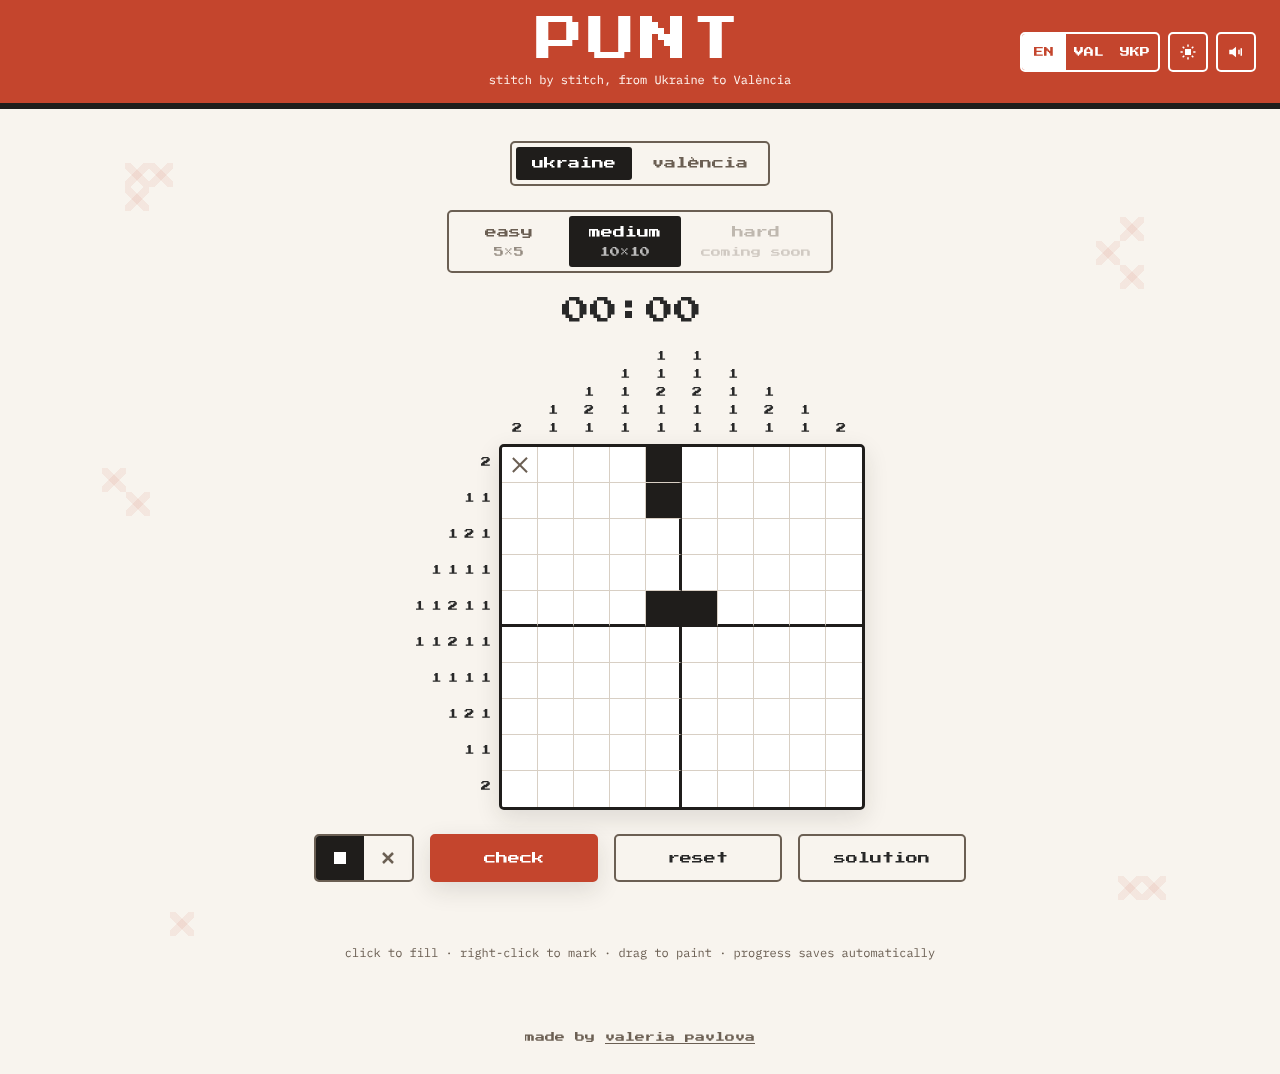
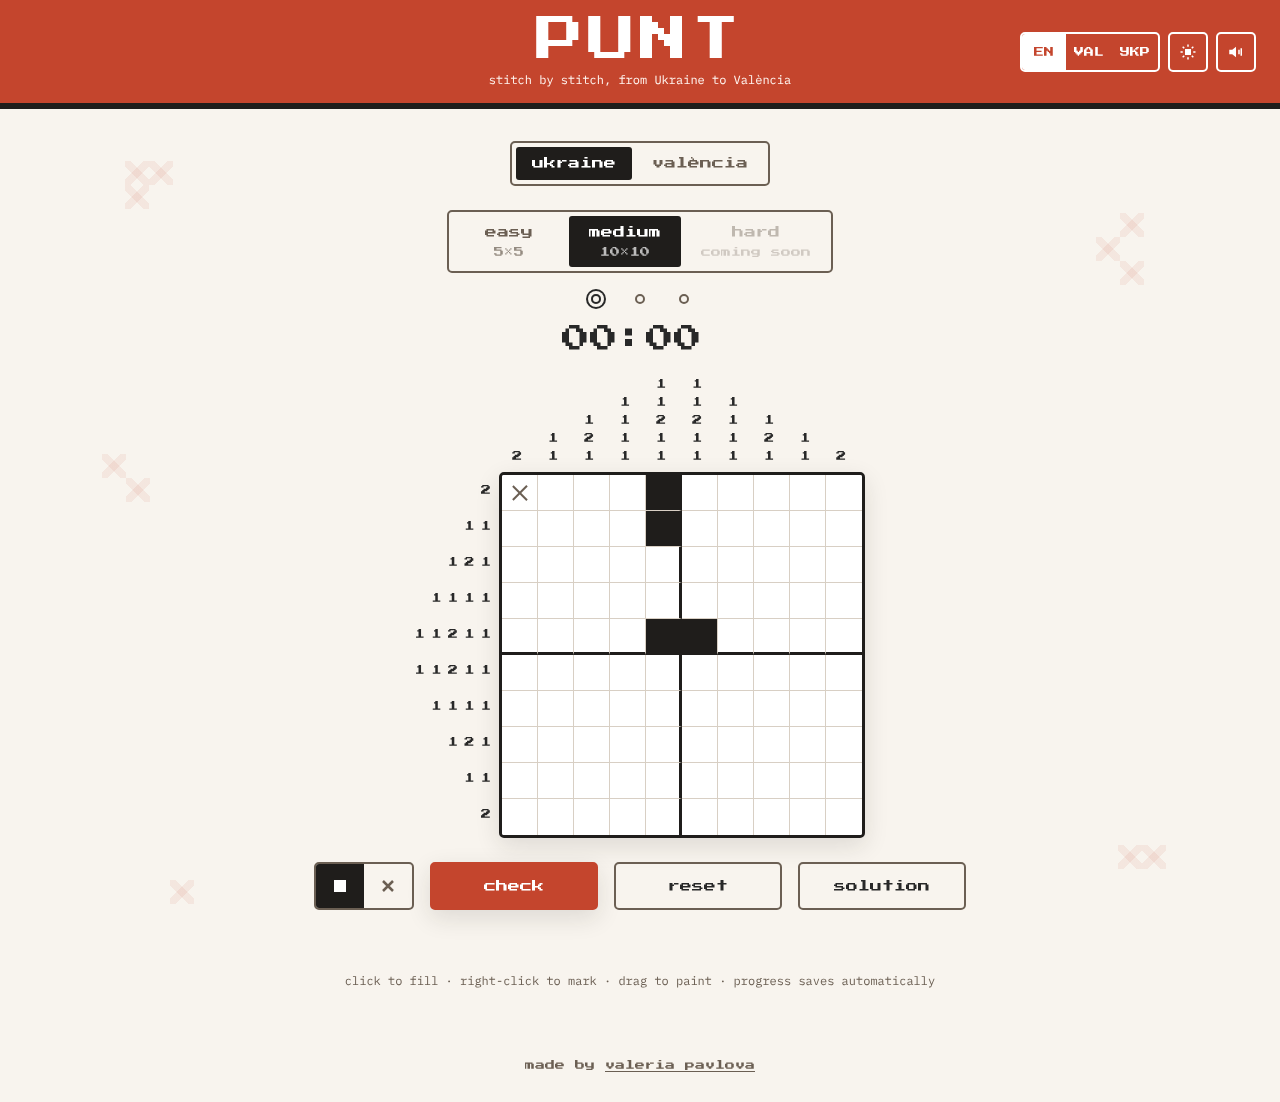
Update README and screenshots for puzzle lists and phone layout
Claude-Session: https://claude.ai/code/session_01DfzDpSfzki2WAp89fEaqQ4

diff --git a/README.md b/README.md
@@ -12,14 +12,15 @@
 
 A nonogram chart and a cross-stitch chart are the same thing: a square grid where each cell is either stitched or left as bare linen. **Stitch = pixel.** I built the game on that idea and on the two places it connects:
 
-- **Ukraine** — motifs from *vyshyvanka* embroidery and *pysanky*: *Wolf's teeth* (a protective border) and *Sown field* (a wish for a good harvest).
-- **València** — symbols of the city: the *orange* of l'Horta and the *rat penat*, the bat on the city's coat of arms.
+- **Ukraine** — motifs from *vyshyvanka* embroidery and *pysanky*: *Wolf's teeth* (a protective border), *Sown field* (a wish for a good harvest), *Rakes*, *Ram's horns*, the eight-pointed star, the little pine and the rose.
+- **València** — symbols of the city: the *orange* of l'Horta and the *rat penat*, the bat on the city's coat of arms, the fan of Aldaia, a Manises tile, the Micalet tower and the paella.
 
 The game uses the same pixel-and-thread language in its UI: a pixel typeface, a grid on linen, and a cross-stitch reveal when you win.
 
 ## Features
 
-- Two collections (Ukraine, València) with **easy 5×5** and **medium 10×10** puzzles. **Hard 15×15** is locked and shows a visible “coming soon” label.
+- Two collections (Ukraine, València) with **13 puzzles**: several **easy 5×5** and **medium 10×10** puzzles per collection. **Hard 15×15** is locked and shows a visible “coming soon” label.
+- **Progress dots** under the level switch: one dot per puzzle — filled when solved, a ring around the current one. Tap a dot to open that puzzle. **Next puzzle** goes to the next unsolved puzzle in the level, then to the next level. Revealing the solution does not count as solved.
 - Every puzzle is checked by a solver to have **exactly one solution**.
 - **Three languages**: English, Valencian, Ukrainian. All UI strings live in one file, `src/i18n.js`. On the first visit the language follows the browser.
 - **Two palettes per collection**: a native one and an alternative one, toggled with the sun button.
@@ -28,6 +29,7 @@ The game uses the same pixel-and-thread language in its UI: a pixel typeface, a 
 - Solved rows and columns fade their clues. The row and column under the pointer are highlighted.
 - **Check** outlines and hatches wrong cells, and says “no mistakes so far” or “N mistakes”. The message is also announced to screen readers.
 - Timer and best time per puzzle.
+- **Phones**: the game fits one screen (`100dvh`, safe areas for the notch and the home bar). The board is sized from the space that is really left, width and height. The controls sit in one row at the bottom, in thumb reach, and the story opens as a bottom sheet over the game.
 - **Progress saves automatically**: the board on every move, the timer every 5 s and when the tab is closed. Language, palette and sound settings are remembered too.
 - **Win animation**: the stitches “sew in” diagonally. With `prefers-reduced-motion` they appear without animation.
 - Optional 8-bit click sound, off by default.
@@ -118,14 +120,16 @@ Then open http://localhost:8000. Any static server works.
 
 ## Adding puzzles (and unlocking hard 15×15)
 
-1. Open `src/puzzles.js` and add a `hard` entry to a collection, in the same format as the others. `grid` is 15 strings of 15 characters, with `#` for a stitch and `.` for empty.
+Every level is a **list** of puzzles. To add one to easy or medium, append it to the end of that list (progress is saved by position, so don't reorder existing puzzles).
+
+1. Open `src/puzzles.js` and add a `hard: [ … ]` list to a collection, in the same format as the others. `grid` is 15 strings of 15 characters, with `#` for a stitch and `.` for empty.
 2. Run the checker:
 
    ```bash
    npm run check
    ```
 
-   It checks the size, the characters, the texts in all three languages, and that the clues have **exactly one solution**. If anything fails, it exits with code 1.
+   It checks the size, the characters, the texts in all three languages, that no grid is used twice, and that the clues have **exactly one solution**. If anything fails, it exits with code 1.
 3. That's it: the **hard** button unlocks by itself for that collection. Collections without a hard puzzle keep showing “coming soon”.
 
 ## Publishing on GitHub Pages
